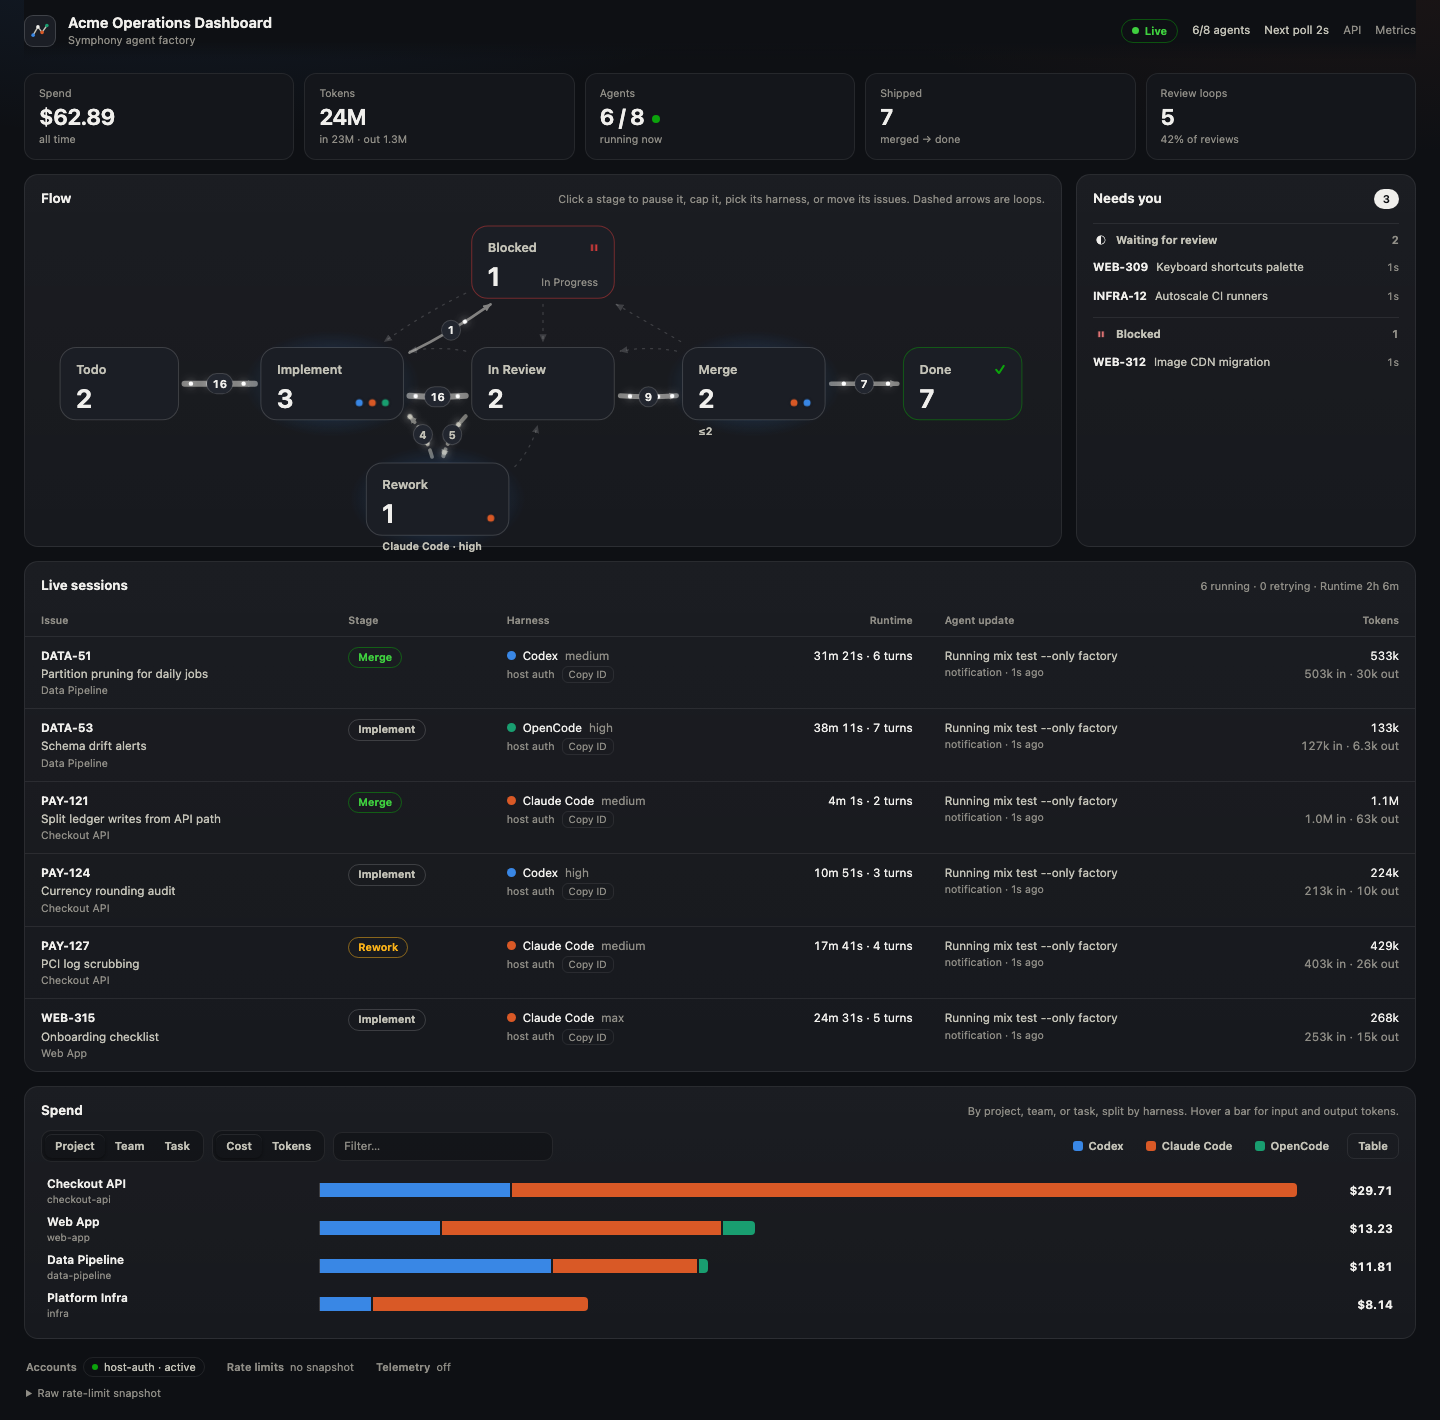
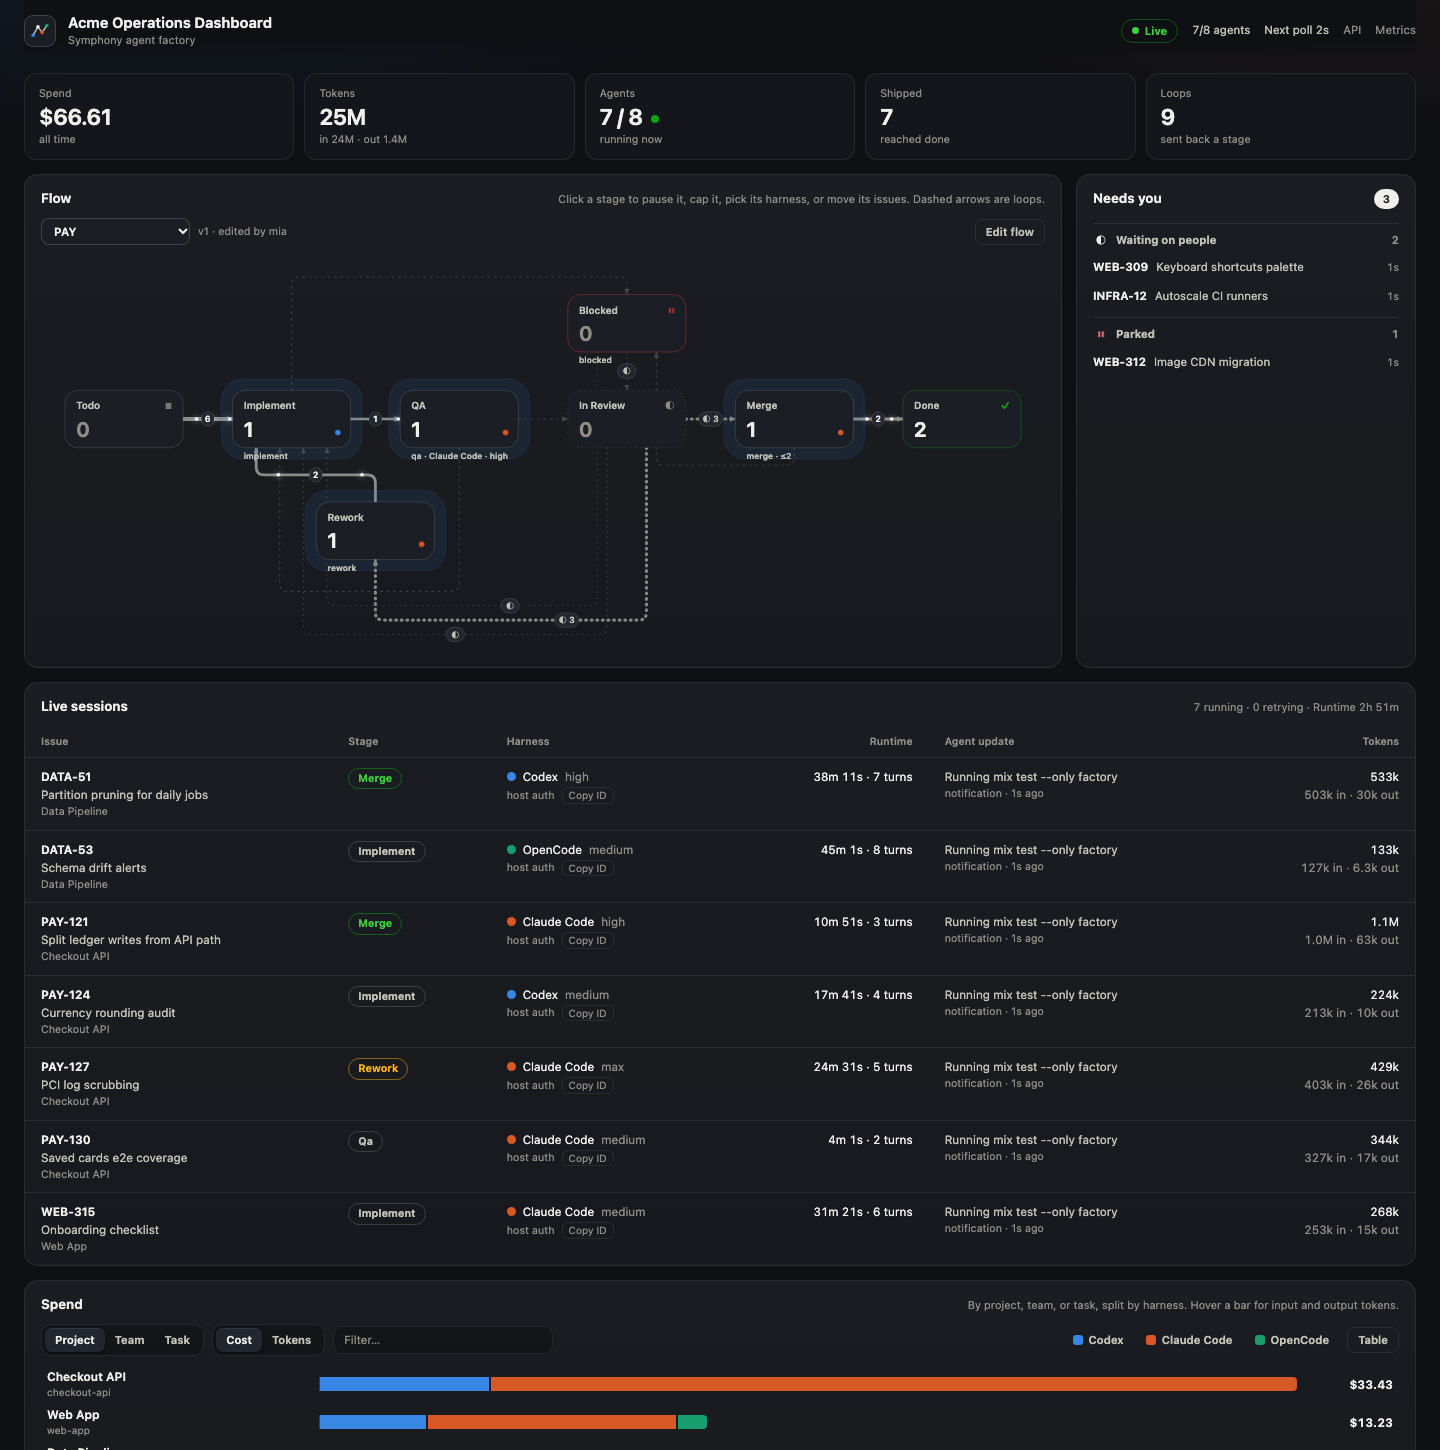
show sessions in their team's stage, refresh docs and screenshots
- live sessions resolve the stage with the issue's identifier, so a team's
  custom stages (e.g. QA) show correctly instead of the default flow's
- flow hint explains solid (agent) vs dotted (person) connections
- guard handleEvent so the panel works with hooks that lack it
- README: per-team flows, editing, drafting stages with AI, permissions;
  new screenshots from the demo (overview, stage controls, moves, editor)
- WORKFLOW.md notes that a team's own flow (the "Your current stage"
  section) overrides the default table; SPEC lists factory definitions

diff --git a/elixir/priv/static/factory.js b/elixir/priv/static/factory.js
@@ -633,7 +633,8 @@
     var panel = panels[targetId] || (panels[targetId] = new Panel(target));
     if (hook && panel.hook !== hook) {
       panel.hook = hook;
-      hook.handleEvent("factory_assist_result", function (payload) {
+      if (typeof hook.handleEvent === "function")
+        hook.handleEvent("factory_assist_result", function (payload) {
         panel.deliver("factory_assist_result", payload);
       });
     }

diff --git a/elixir/README.md b/elixir/README.md
@@ -482,30 +482,75 @@ Open `http://127.0.0.1:<server.port>/`. The page is laid out in the order an ope
 - **Spend**: cost or tokens grouped by project, team (the Linear key, for example `PAY`), or
   task, split by harness. Hover a bar for input and output tokens, or switch to the table view.
 
-### Steering the factory from the diagram
+### Each team's flow, and steering it
 
-Click a stage to manage it. Its controls replace the Needs-you column so the whole diagram
-stays visible. `#stage=<name>` in the URL deep-links to a stage.
+Every Linear team can have its own factory flow: the stages work moves through and how they
+connect. Teams without one use the organisation's default flow, which starts as Symphony's
+built-in flow. Pick the team at the top of the diagram. `#team=PAY&stage=qa` deep-links to a
+team and stage.
+
+Click a stage to manage it. Its panel replaces the Needs-you column so the whole diagram stays
+visible.
 
 ![Stage controls](../.github/media/dashboard-stage-controls.png)
 
-For agent stages (Todo, Implement, Rework, Merge) you can:
+For stages agents work in, you can:
 
-- **Pause dispatch**: no new agents start in that stage, and running ones finish their turn.
-- **Cap concurrency**: the most agents allowed in that stage at once.
-- **Pick the harness and thinking level**: the default for that stage. An issue's own `codex`,
-  `claude`, `thinking/*` labels still win.
+- **Pause dispatch.** No new agents start in that stage; running ones finish their turn.
+- **Cap concurrency.** Set the most agents allowed in that stage at once.
+- **Pick the harness and thinking level** used by default in that stage. An issue's own `codex`,
+  `claude`, or `thinking/*` labels still win.
 
-Each stage also lists its issues with one-click moves that write back to Linear (state plus
-stage label). In review, that means **Approve & merge** or **Send to rework**:
+Each stage lists its issues, with a button for every connection a person can move them along.
+For example, In Review offers Merge, Rework, and Implement. Moves write the state and stage
+label back to Linear.
 
-![Review actions](../.github/media/dashboard-review-actions.png)
+![Moving issues](../.github/media/dashboard-review-actions.png)
 
-Stage settings persist in `~/.symphony/factory_controls.json`. Changes apply instantly in the
-UI and roll back with a message if the server rejects them.
+#### Editing a flow
 
-Who can do what comes from Linear (see below). `server.controls: false` makes the page
-read-only for everyone.
+**Edit flow** turns the diagram into an editor:
+
+![Flow editor](../.github/media/dashboard-flow-editor.png)
+
+- **Stages.** Use **+ Stage** to add one, drag stages to place them, and click one to set its:
+  - name
+  - **kind**: *queue* (waiting for an agent), *agent*, *human*, *parked* (never dispatched), or
+    *done*
+  - **Linear state**, plus an optional **stage label**. Many stages can share a state; for
+    example, Implement, QA, and Merge all live in In Progress, told apart by label.
+  - agent instructions
+  - default harness, thinking level, and agent cap
+- **Connections.** Drag from a stage's ＋ handle to another stage. Each connection says whether
+  an **agent** or a **person** moves issues along it, and when (its exit criteria). Agents are told
+  their allowed moves; people get buttons for theirs.
+- **Routing.** Lines are drawn at right angles with rounded corners, spaced apart where they
+  share a side, with loops kept in their own lanes.
+- **Saving.**
+  - Saving checks the flow (for example: every stage needs a Linear state, and there's a done
+    stage) and lists any problems.
+  - If someone else saved first, you're told rather than overwriting their change.
+  - On save, Symphony creates the team's `factory` label group and any missing stage labels in
+    Linear.
+- **Who can edit.** Team members edit their own team's flow; Linear admins edit any team's and the
+  organisation default.
+
+Agents get a **"Your current stage"** section in their prompt. It has the stage's instructions,
+the stage's skill if it has one, and each allowed move with the exact Linear state and label to
+set. Workflow templates can place it themselves with `{{ stage.prompt }}`.
+
+#### Drafting a stage with AI
+
+In a stage's form, **✦ Draft with AI** takes a plain description ("before review, run the
+Playwright suite against the preview deploy; send it back if anything fails") and drafts:
+
+- the stage's agent instructions
+- its connections, with who moves each one and when
+- an optional skill file, which is stored with the stage and added to its prompt
+
+It runs your configured harness (`claude -p`, `codex exec`, or `opencode run`) one-shot in an
+empty scratch directory with file, shell, and web tools disallowed. A draft takes 20 to 40
+seconds. Nothing changes until you review the preview and click **Apply**, then **Save**.
 
 ### Sign-in and permissions
 
@@ -562,7 +607,7 @@ admin flag set the permissions, so there are no roles or team lists to maintain 
   clients could spoof those headers.
 - Set `server.secret_key_base` (or `SYMPHONY_SECRET_KEY_BASE`) when running more than one
   instance, or when `~/.symphony` isn't persistent.
-- State lives in `~/.symphony` (accounts, session secret, factories, usage), which Symphony
+- State lives in `~/.symphony` (accounts, session secret, `factories/<TEAM>.json`, usage), which Symphony
   creates as owner-only (0700, files 0600). Back it up.
 - Without sign-in (`local` mode) Symphony only answers requests addressed to `localhost`,
   `127.0.0.1`, or `[::1]`, which blocks DNS-rebinding attacks from web pages.

diff --git a/README.md b/README.md
@@ -14,12 +14,14 @@ _In this [demo video](.github/media/symphony-demo.mp4), Symphony monitors a Line
 
 ![Symphony dashboard](.github/media/dashboard-overview.png)
 
-The dashboard shows the factory as a live flow diagram you can steer. Click a stage to pause it,
-cap its agents, or choose its harness and thinking level, and approve or send back issues
-in review without leaving the page. It also shows what needs a human, what each agent is doing,
+The dashboard shows each Linear team's factory as a live flow diagram you can steer. You can
+design the flow itself: add stages, draw connections, and draft a stage's agent instructions
+and skill with AI. Click a stage to pause it, cap its agents, choose its harness and thinking
+level, or move issues along its connections. People sign in with Symphony accounts tied to
+their Linear identity. The dashboard also shows what needs a human, what each agent is doing,
 and what it all costs by project, team, task, and harness.
 
-![Stage controls](.github/media/dashboard-stage-controls.png)
+![Flow editor](.github/media/dashboard-flow-editor.png)
 
 See [elixir/README.md](elixir/README.md#web-dashboard) for details.
 

diff --git a/SPEC.md b/SPEC.md
@@ -661,6 +661,11 @@ This section is intentionally redundant so a coding agent can implement the conf
 - `tracker.paused_stages` (extension): list of stage names, default `["blocked", "review"]`;
   issues in these stages are not dispatched even when their state is active
 - `sandbox` (extension): optional per-workspace container isolation (`kind: none | docker`)
+- Factory definitions (extension, not workflow config): per Linear team, stored by the service,
+  listing stages (Linear state + optional stage label, kind `queue|agent|human|parked|done`,
+  instructions, optional skill, harness/effort/agent-cap defaults) and connections (moved by
+  `agent|human`, criteria). Only `queue` and `agent` stages are dispatched; the agent prompt gets
+  the current stage's instructions and allowed moves.
 - `server.auth` (extension): dashboard sign-in, `local` or `accounts` (username/password
   accounts tied to Linear users by email; teams and admin rights come from Linear); defaults
   to `local` on loopback hosts

diff --git a/elixir/WORKFLOW.md b/elixir/WORKFLOW.md
@@ -88,6 +88,10 @@ The agent should be able to talk to Linear, either via a configured Linear MCP s
 
 ## States and factory stages
 
+The table below is the default flow. Your team may have its own stages and connections; when
+it does, the "Your current stage" section at the end of this prompt is authoritative for your
+instructions and allowed moves.
+
 This workflow uses Linear's default states only. Finer-grained stages inside a
 state are expressed with labels from the `{{ factory.label_prefix }}` label group (Linear reports them
 as `{{ factory.label_prefix }}/<stage>`). A label group allows only one stage label per issue at a time.
